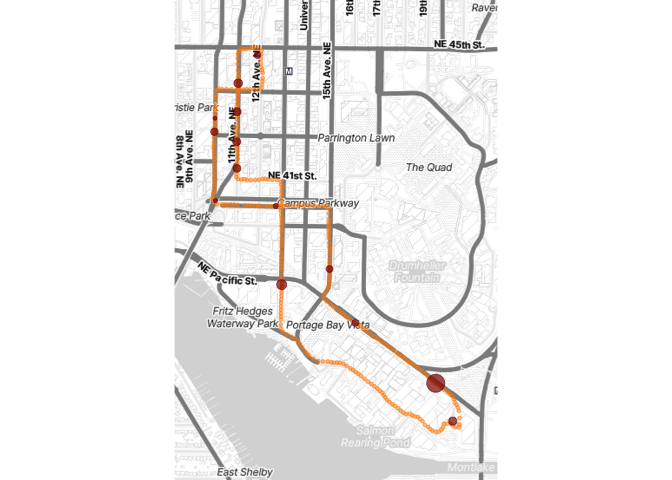
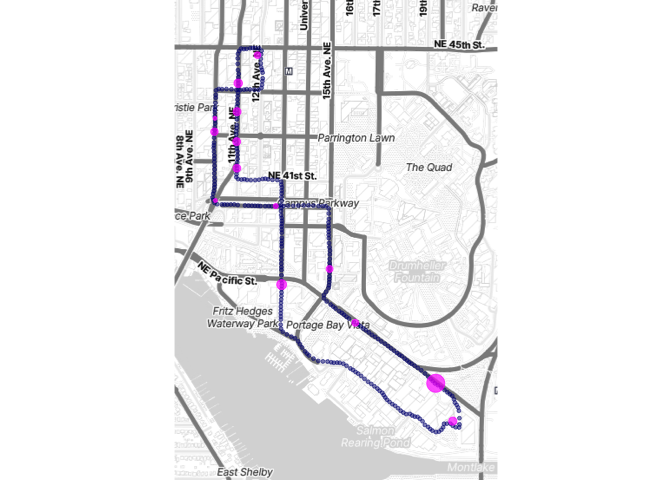
Changed color scheme to make it easier to see points.

diff --git a/test_stopr.md b/test_stopr.md
@@ -110,10 +110,10 @@ basemap <- get_stadiamap(bbox, zoom = 15, maptype = "stamen_toner_lite")
 # Create the plot
 p <- ggmap(basemap) +
   geom_point(mapping = aes(x = longitude, y = latitude),
-             data = df, color = 'darkorange', size = 1, alpha = 0.5) +
+             data = df, color = 'navy', size = 1, alpha = 0.5) +
   geom_point(mapping = aes(x = longitude, y = latitude,
                            size = log10(rescale(duration) + 1)/2),
-             data = stops, color = 'darkred', alpha = 0.7) +
+             data = stops, color = 'magenta', alpha = 0.7) +
   theme_void() + theme(legend.position = "none") +
   labs(x = NULL, y = NULL, fill = NULL)
 ```
